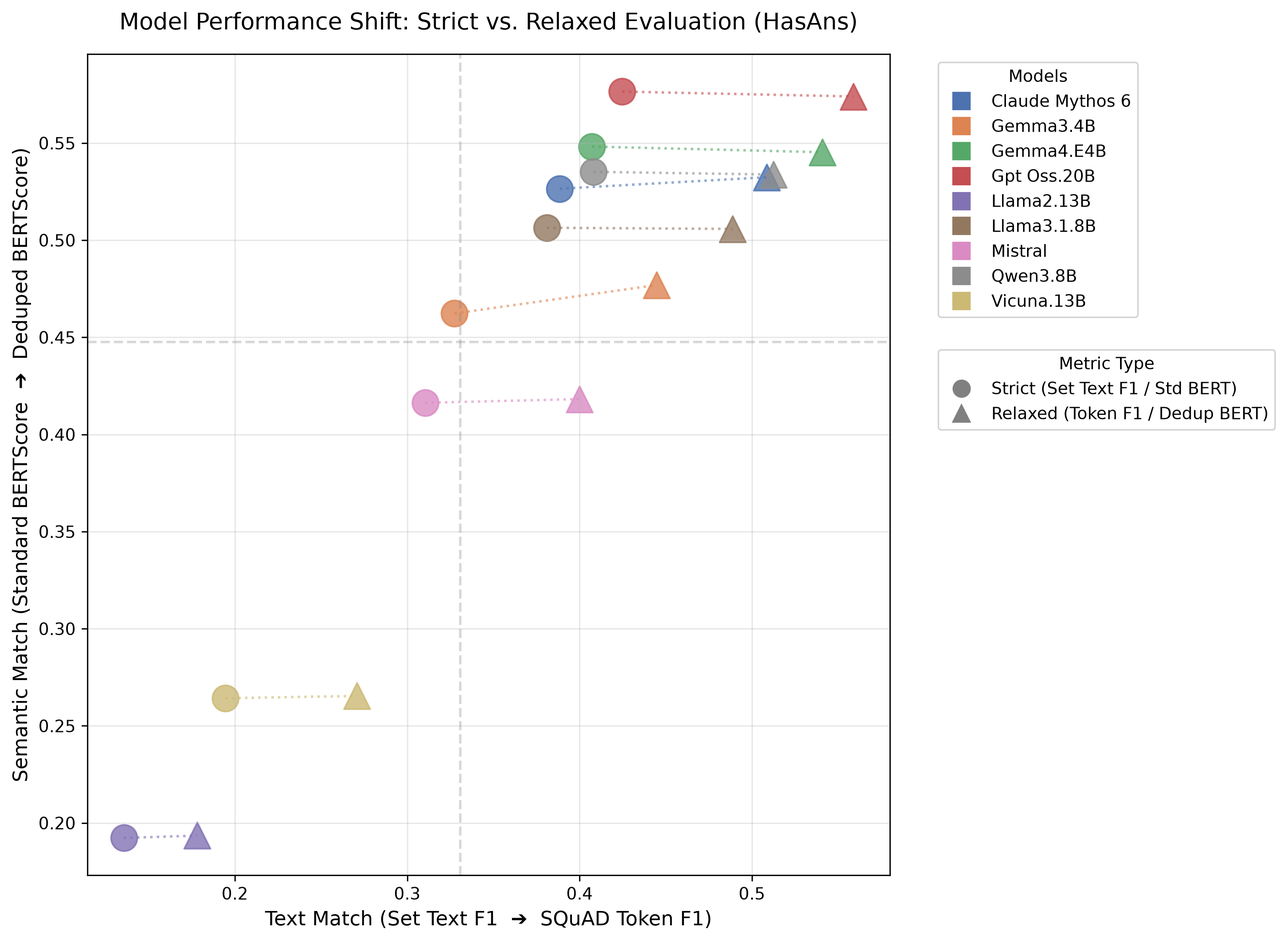
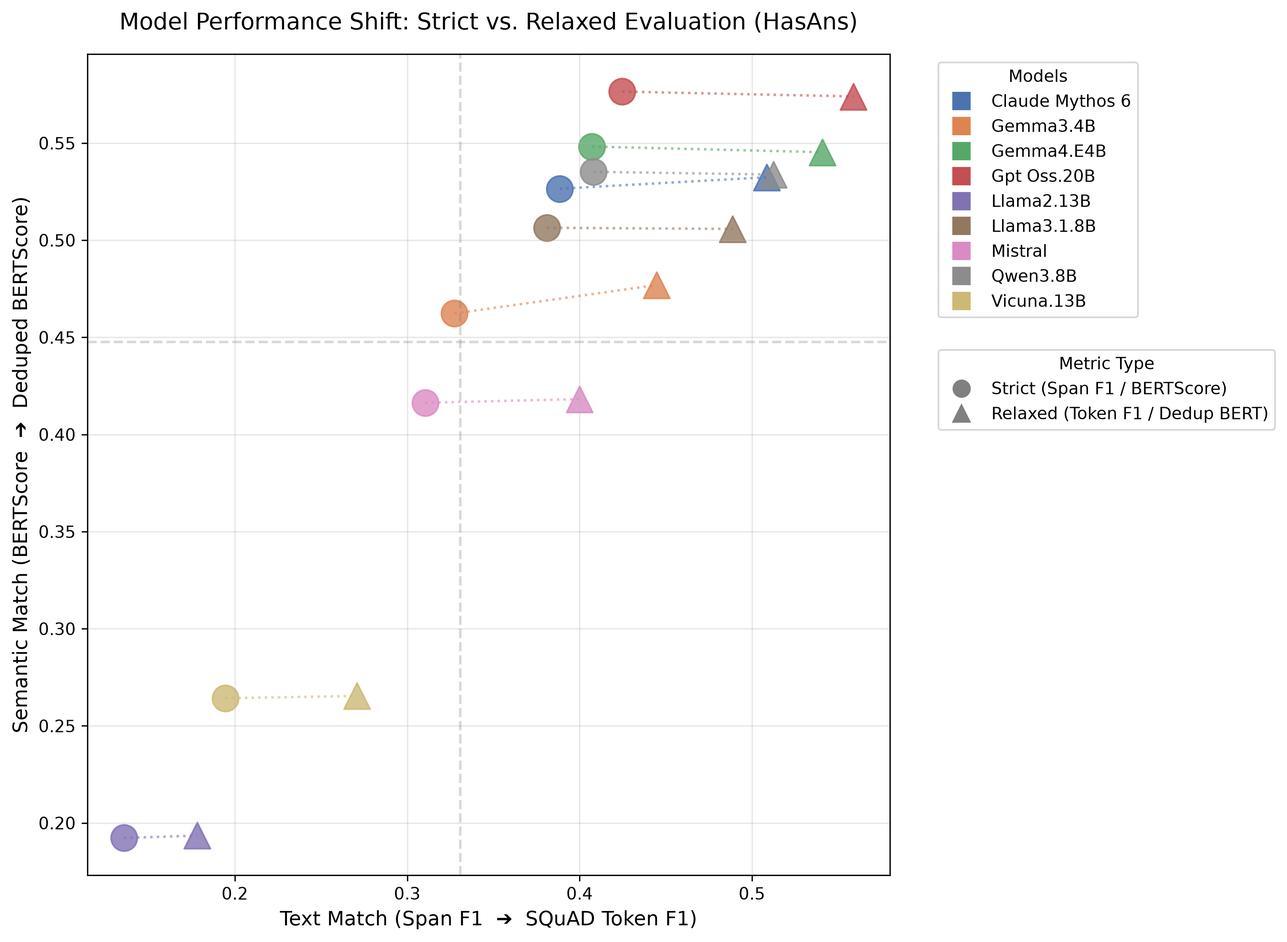
Rename evaluation metric labels
Update evaluation reporting, scripts, and plot labels to use the new Span F1, Labeled Span F1, BERTScore, and Model/Doc Count terminology throughout the pipeline and report outputs.

Changed region(s): [[0.0, 0.1562, 0.0312, 0.8122], [0.2183, 0.9683, 0.5615, 0.9996], [0.8422, 0.4061, 0.967, 0.4373]]

diff --git a/evaluation/scripts/run_eval.py b/evaluation/scripts/run_eval.py
@@ -105,7 +105,7 @@ def evaluate_models_globally(model_files, gt_map, q_num):
                 record["set_text_f1"] = set_text_f1
                 record["token_f1"] = token_f1
 
-                # Label F1 (text + category tuples)
+                # Labeled Span F1 (text + category tuples)
                 record["label_f1"] = EvaluationEngine.evaluate_strict_tuple_match(gold_spans, pred_spans)
 
                 # Queue Pairs for BERTScore
@@ -179,11 +179,11 @@ def aggregate_squad2_metrics(df, group_cols):
         # 1b. Missed Answer Rate: pred empty when gold nonempty
         missed_answer_rate = round((~has_ans_group['has_pred']).mean(), 4) if has_ans_n > 0 else 0.0
 
-        # 2. Set Text F1
+        # 2. Span F1 (exact normalized phrase multiset F1)
         overall_set_text_f1 = round(group['set_text_f1'].mean(), 4)
         has_ans_set_text_f1 = round(has_ans_group['set_text_f1'].mean(), 4) if has_ans_n > 0 else 0.0
 
-        # 3. Label F1
+        # 3. Labeled Span F1 (text + category tuples)
         overall_label_f1 = round(group['label_f1'].mean(), 4)
         has_ans_label_f1 = round(has_ans_group['label_f1'].mean(), 4) if has_ans_n > 0 else 0.0
 
@@ -202,8 +202,8 @@ def aggregate_squad2_metrics(df, group_cols):
         avg_spans = round(group['spans_generated'].mean(), 2)
 
         res = {
-            "Model System": name if isinstance(name, str) else name[0],
-            "Total_N": len(group),
+            "Model": name if isinstance(name, str) else name[0],
+            "Doc Count": len(group),
             
             # Numeric columns used specifically for generating plots
             "Avg Spans": avg_spans,
@@ -211,18 +211,18 @@ def aggregate_squad2_metrics(df, group_cols):
             "Missed Answer Rate Num": missed_answer_rate,
             "Overall Dedup BERT": overall_dd_bert,
             "HasAns Dedup BERT": has_ans_dd_bert, 
-            "HasAns Set Text F1": has_ans_set_text_f1,
+            "HasAns Span F1": has_ans_set_text_f1,
             "HasAns Token F1": has_ans_token_f1,
-            "HasAns Std BERT": has_ans_std_bert,
-            "HasAns Label F1": has_ans_label_f1,
+            "HasAns BERTScore": has_ans_std_bert,
+            "HasAns Labeled Span F1": has_ans_label_f1,
             
             # Formatted columns used for the final Markdown table printout
             "Abstention (NoAns)": f"{no_ans_acc:.2f}",
             "Missed Answer Rate": f"{missed_answer_rate:.2f}",
-            "Set Text F1 (Overall / HasAns)": f"{overall_set_text_f1:.2f} / {has_ans_set_text_f1:.2f}",
-            "Label F1 (Overall / HasAns)": f"{overall_label_f1:.2f} / {has_ans_label_f1:.2f}",
+            "Span F1 (Overall / HasAns)": f"{overall_set_text_f1:.2f} / {has_ans_set_text_f1:.2f}",
+            "Labeled Span F1 (Overall / HasAns)": f"{overall_label_f1:.2f} / {has_ans_label_f1:.2f}",
             "SQuAD Token F1 (Overall / HasAns)": f"{overall_token_f1:.2f} / {has_ans_token_f1:.2f}",
-            "Standard BERTScore (Overall / HasAns)": f"{overall_std_bert:.2f} / {has_ans_std_bert:.2f}",
+            "BERTScore (Overall / HasAns)": f"{overall_std_bert:.2f} / {has_ans_std_bert:.2f}",
             "Deduped BERTScore (Overall / HasAns)": f"{overall_dd_bert:.2f} / {has_ans_dd_bert:.2f}"
         }
         
@@ -274,30 +274,30 @@ def run_evaluation_pipeline(question_filter=None):
 
     # Define exact columns to display 
     display_cols = [
-        "Model System", 
-        "Total_N",
+        "Model", 
+        "Doc Count",
         "Avg Spans",
         "Abstention (NoAns)", 
         "Missed Answer Rate",
-        "Set Text F1 (Overall / HasAns)", 
-        "Label F1 (Overall / HasAns)", 
+        "Span F1 (Overall / HasAns)", 
+        "Labeled Span F1 (Overall / HasAns)", 
         "SQuAD Token F1 (Overall / HasAns)",
-        "Standard BERTScore (Overall / HasAns)",
-        "Deduped BERTScore (Overall / HasAns)"
+        "BERTScore (Overall / HasAns)",
+        "Deduped BERTScore (Overall / HasAns)",
     ]
 
     # LAYER 1: GLOBAL AGGREGATION
     g_agg = aggregate_squad2_metrics(df, group_cols=['model'])
 
     # Pass the DF with numeric columns to the visualizer
-    generate_performance_quadrant(df=g_agg, model_col="Model System", filename="master_quadrant.png")
-    generate_strict_vs_relaxed_quadrant(df=g_agg, model_col="Model System", filename="strict_vs_relaxed.png")
-    generate_verbosity_scatter(df=g_agg, model_col="Model System", filename="verbosity_vs_accuracy.png")
+    generate_performance_quadrant(df=g_agg, model_col="Model", filename="master_quadrant.png")
+    generate_strict_vs_relaxed_quadrant(df=g_agg, model_col="Model", filename="strict_vs_relaxed.png")
+    generate_verbosity_scatter(df=g_agg, model_col="Model", filename="verbosity_vs_accuracy.png")
 
     total_time = round(time.time() - pipeline_start_time, 2)
     print(f"**Pipeline Execution Time:** {total_time} seconds")
     print(f"**Total Models Evaluated:** {len(g_agg)}")
-    print(f"**Total Documents Processed:** {g_agg['Total_N'].max()}\n")
+    print(f"**Total Documents Processed:** {g_agg['Doc Count'].max()}\n")
 
     print("## Part 1: Global Benchmark Leaderboard (SQuAD 2.0 Standard)")
     print("> *All text metrics formatted as (Overall / HasAns)*\n")
@@ -310,7 +310,7 @@ def run_evaluation_pipeline(question_filter=None):
     print("![Master Performance Quadrant](assets/master_quadrant.png)\n")
     
     print("### 2. Strict vs. Relaxed Evaluation Shift")
-    print("> *Visualizing the performance penalty models take when evaluated strictly (Set Text F1) vs. relaxed (Token/Semantic).*")
+    print("> *Visualizing the performance penalty models take when evaluated strictly (Span F1) vs. relaxed (Token/Semantic).*")
     print("![Strict vs Relaxed](assets/strict_vs_relaxed.png)\n")
     
     print("### 3. Verbosity vs. Semantic Accuracy")
@@ -325,8 +325,8 @@ def run_evaluation_pipeline(question_filter=None):
         print("\n---\n")
         print("## Part 3: Task Complexity Breakdown")
         
-        heatmap_df = q_agg[['Model System', 'Question', 'Overall Dedup BERT', 'HasAns Dedup BERT']].copy()
-        heatmap_df.rename(columns={'Model System': 'Model Target', 'Question': 'question'}, inplace=True)
+        heatmap_df = q_agg[['Model', 'Question', 'Overall Dedup BERT', 'HasAns Dedup BERT']].copy()
+        heatmap_df.rename(columns={'Model': 'Model Target', 'Question': 'question'}, inplace=True)
         heatmap_df['Question Track'] = heatmap_df['question'].apply(lambda x: f"Question {x}")
         
         generate_task_heatmap_overall(df=heatmap_df, filename="task_complexity_heatmap_overall.png")

diff --git a/evaluation/scripts/visualization.py b/evaluation/scripts/visualization.py
@@ -23,7 +23,7 @@ def clear_assets_dir():
         except Exception:
             pass
 
-def generate_performance_quadrant(df, model_col="Model System", filename="master_quadrant.png"):
+def generate_performance_quadrant(df, model_col="Model", filename="master_quadrant.png"):
     """
     Plots Answerability (NoAns Acc) vs. Extraction Quality (HasAns Dedup BERT).
     Creates 4 quadrants showing model 'personalities'.
@@ -76,9 +76,9 @@ def generate_performance_quadrant(df, model_col="Model System", filename="master
     plt.close(fig)
 
 
-def generate_strict_vs_relaxed_quadrant(df, model_col="Model System", filename="strict_vs_relaxed.png"):
+def generate_strict_vs_relaxed_quadrant(df, model_col="Model", filename="strict_vs_relaxed.png"):
     """
-    Plots the performance shift from Strict (Set Text F1 / Std BERT) to Relaxed (Token F1 / Dedup BERT).
+    Plots the performance shift from Strict (Span F1 / BERTScore) to Relaxed (Token F1 / Dedup BERT).
     Uses HasAns metrics to isolate pure text extraction mechanics.
     """
     _ensure_assets_dir()
@@ -93,7 +93,7 @@ def generate_strict_vs_relaxed_quadrant(df, model_col="Model System", filename="
         color = color_map[model]
         
         # Plot Strict (Circle)
-        ax.scatter(row['HasAns Set Text F1'], row['HasAns Std BERT'], 
+        ax.scatter(row['HasAns Span F1'], row['HasAns BERTScore'], 
                    color=color, marker='o', s=250, alpha=0.8)
         
         # Plot Relaxed (Triangle)
@@ -101,18 +101,18 @@ def generate_strict_vs_relaxed_quadrant(df, model_col="Model System", filename="
                    color=color, marker='^', s=250, alpha=0.8)
         
         # Draw dotted line connecting them
-        ax.plot([row['HasAns Set Text F1'], row['HasAns Token F1']], 
-                [row['HasAns Std BERT'], row['HasAns Dedup BERT']], 
+        ax.plot([row['HasAns Span F1'], row['HasAns Token F1']], 
+                [row['HasAns BERTScore'], row['HasAns Dedup BERT']], 
                 color=color, linestyle=':', alpha=0.6)
 
     # Calculate medians for safe crosshairs
     if len(df) > 0:
-        ax.axvline(x=df['HasAns Set Text F1'].mean(), color='gray', linestyle='--', alpha=0.3)
-        ax.axhline(y=df['HasAns Std BERT'].mean(), color='gray', linestyle='--', alpha=0.3)
+        ax.axvline(x=df['HasAns Span F1'].mean(), color='gray', linestyle='--', alpha=0.3)
+        ax.axhline(y=df['HasAns BERTScore'].mean(), color='gray', linestyle='--', alpha=0.3)
 
     ax.set_title("Model Performance Shift: Strict vs. Relaxed Evaluation (HasAns)", fontsize=14, pad=15)
-    ax.set_xlabel("Text Match (Set Text F1  ➔  SQuAD Token F1)", fontsize=12)
-    ax.set_ylabel("Semantic Match (Standard BERTScore  ➔  Deduped BERTScore)", fontsize=12)
+    ax.set_xlabel("Text Match (Span F1  ➔  SQuAD Token F1)", fontsize=12)
+    ax.set_ylabel("Semantic Match (BERTScore  ➔  Deduped BERTScore)", fontsize=12)
     ax.grid(True, alpha=0.3)
    
     # Models Legend (Colors)
@@ -123,7 +123,7 @@ def generate_strict_vs_relaxed_quadrant(df, model_col="Model System", filename="
     ax.add_artist(first_legend) 
 
     # Metric Type Legend (Shapes)
-    strict_marker = mlines.Line2D([], [], color='gray', marker='o', linestyle='None', markersize=10, label='Strict (Set Text F1 / Std BERT)')
+    strict_marker = mlines.Line2D([], [], color='gray', marker='o', linestyle='None', markersize=10, label='Strict (Span F1 / BERTScore)')
     relaxed_marker = mlines.Line2D([], [], color='gray', marker='^', linestyle='None', markersize=10, label='Relaxed (Token F1 / Dedup BERT)')
     
     ax.legend(handles=[strict_marker, relaxed_marker], title="Metric Type", 
@@ -135,7 +135,7 @@ def generate_strict_vs_relaxed_quadrant(df, model_col="Model System", filename="
     plt.close(fig)
 
 
-def generate_verbosity_scatter(df, model_col="Model System", filename="verbosity_vs_accuracy.png"):
+def generate_verbosity_scatter(df, model_col="Model", filename="verbosity_vs_accuracy.png"):
     """
     Plots Avg Spans vs HasAns Dedup BERT to see if verbosity inflates semantic scores.
     """
@@ -222,7 +222,7 @@ def generate_task_heatmap_hasans(df, filename="task_complexity_heatmap_hasans.pn
 def generate_classification_dropoff(df, filename="classification_dropoff_q2.png"):
     """
     Creates a grouped bar chart for Question 2 showing the drop-off 
-    between finding the text (Set Text F1) and classifying it correctly (Label F1).
+    between finding the text (Span F1) and classifying it correctly (Labeled Span F1).
     """
     _ensure_assets_dir()
     
@@ -231,11 +231,11 @@ def generate_classification_dropoff(df, filename="classification_dropoff_q2.png"
     df_q2 = df[df['Question'] == 2].copy()
     if df_q2.empty: return
     
-    df_q2 = df_q2.sort_values(by='HasAns Set Text F1', ascending=False)
+    df_q2 = df_q2.sort_values(by='HasAns Span F1', ascending=False)
     
-    models = df_q2['Model System'].tolist()
-    text_scores = df_q2['HasAns Set Text F1'].tolist()
-    label_scores = df_q2['HasAns Label F1'].tolist()
+    models = df_q2['Model'].tolist()
+    text_scores = df_q2['HasAns Span F1'].tolist()
+    label_scores = df_q2['HasAns Labeled Span F1'].tolist()
 
     x = np.arange(len(models))
     width = 0.35
@@ -243,8 +243,8 @@ def generate_classification_dropoff(df, filename="classification_dropoff_q2.png"
     fig, ax = plt.subplots(figsize=(10, 6))
     
     # Draw the bars
-    rects1 = ax.bar(x - width/2, text_scores, width, label='Extracted Correct Text (Set Text F1)', color='#4c72b0')
-    rects2 = ax.bar(x + width/2, label_scores, width, label='Assigned Correct 8-Class Label (Label F1)', color='#dd8452')
+    rects1 = ax.bar(x - width/2, text_scores, width, label='Extracted Correct Text (Span F1)', color='#4c72b0')
+    rects2 = ax.bar(x + width/2, label_scores, width, label='Assigned Correct 8-Class Label (Labeled Span F1)', color='#dd8452')
 
     ax.set_ylabel('Score (HasAns)', fontsize=12)
     ax.set_title('Question 2: Reading Comprehension vs. Classification Reasoning', fontsize=14, pad=15)

diff --git a/evaluation/scripts/calculate_correlation.py b/evaluation/scripts/calculate_correlation.py
@@ -131,7 +131,7 @@ def run_correlation_pipeline():
     print("### Correlation Comparison: Strict vs. Relaxed Metrics\n")
     print("| Evaluation Dimension | Strict Metric | Relaxed Metric | Strict Spearman (ρ) | Relaxed Spearman (ρ) |")
     print("|---|---|---|---|---|")
-    print(f"| **Lexical Match** | Set Text F1 | SQuAD Token F1 | {rho_set_text_f1:.4f} | **{rho_token_f1:.4f}** |")
+    print(f"| **Lexical Match** | Span F1 | SQuAD Token F1 | {rho_set_text_f1:.4f} | **{rho_token_f1:.4f}** |")
     print(f"| **Semantic Match** | DeBERTa F1 | Deduped DeBERTa F1 | {rho_f:.4f} | **{rho_f_dedup:.4f}** |\n")
     print("\n### Side-by-Side Ranking Comparison\n")
     print(df_ranking_matrix.to_markdown(index=False))

diff --git a/evaluation/scripts/semantic_diagnostic.py b/evaluation/scripts/semantic_diagnostic.py
@@ -147,7 +147,7 @@ def run_comprehensive_evaluation():
     print("### Strict vs. Relaxed Metric Correlation\n")
     print("| Evaluation Dimension | Strict Metric | Relaxed Metric | Strict Spearman (ρ) | Relaxed Spearman (ρ) |")
     print("|---|---|---|---|---|")
-    print(f"| **Lexical Match** | Set Text F1 | SQuAD Token F1 | {rho_set_text_f1:.4f} | **{rho_token_f1:.4f}** |")
+    print(f"| **Lexical Match** | Span F1 | SQuAD Token F1 | {rho_set_text_f1:.4f} | **{rho_token_f1:.4f}** |")
     print(f"| **Semantic Match** | DeBERTa F1 | Deduped DeBERTa F1 | {rho_f:.4f} | **{rho_f_dedup:.4f}** |\n")
     
     print("### Delta Analysis (Top 5 Disagreements after Relaxation)\n")

diff --git a/evaluation/scripts/core.py b/evaluation/scripts/core.py
@@ -35,7 +35,7 @@ class EvaluationEngine:
     @classmethod
     def evaluate_strict_tuple_match(cls, gold_spans, pred_spans):
         """
-        Label F1: evaluates (text, label) pairs as inseparable units for one document.
+        Label F1 / Labeled Span F1: evaluates (text, label) pairs as inseparable units for one document.
         Returns document-level F1 (0.0 to 1.0), not binary exact match.
         """
         if not gold_spans and not pred_spans: return 1.0

diff --git a/evaluation/evaluation_report.md b/evaluation/evaluation_report.md
@@ -1,22 +1,22 @@
 # LLM Evaluation Report
-**Pipeline Execution Time:** 191.86 seconds
+**Pipeline Execution Time:** 258.7 seconds
 **Total Models Evaluated:** 9
 **Total Documents Processed:** 1574
 
 ## Part 1: Global Benchmark Leaderboard (SQuAD 2.0 Standard)
 > *All text metrics formatted as (Overall / HasAns)*
 
-| Model System    |   Total_N |   Avg Spans |   Abstention (NoAns) |   Missed Answer Rate | Set Text F1 (Overall / HasAns)   | Label F1 (Overall / HasAns)   | SQuAD Token F1 (Overall / HasAns)   | Standard BERTScore (Overall / HasAns)   | Deduped BERTScore (Overall / HasAns)   |
-|:----------------|----------:|------------:|---------------------:|---------------------:|:---------------------------------|:------------------------------|:------------------------------------|:----------------------------------------|:---------------------------------------|
-| Gpt Oss.20B     |      1574 |        3.8  |                 0.57 |                 0.07 | 0.48 / 0.42                      | 0.48 / 0.41                   | 0.56 / 0.56                         | 0.57 / 0.58                             | 0.57 / 0.57                            |
-| Gemma4.E4B      |      1574 |        3.82 |                 0.54 |                 0.06 | 0.46 / 0.41                      | 0.45 / 0.39                   | 0.54 / 0.54                         | 0.54 / 0.55                             | 0.54 / 0.55                            |
-| Qwen3.8B        |      1574 |        3.32 |                 0.54 |                 0.07 | 0.46 / 0.41                      | 0.45 / 0.40                   | 0.52 / 0.51                         | 0.54 / 0.54                             | 0.53 / 0.53                            |
-| Claude Mythos 6 |      1574 |        4.79 |                 0.55 |                 0.07 | 0.46 / 0.39                      | 0.45 / 0.38                   | 0.53 / 0.51                         | 0.54 / 0.53                             | 0.54 / 0.53                            |
-| Llama3.1.8B     |      1574 |        3.86 |                 0.35 |                 0.04 | 0.37 / 0.38                      | 0.35 / 0.35                   | 0.43 / 0.49                         | 0.44 / 0.51                             | 0.44 / 0.51                            |
-| Gemma3.4B       |      1574 |        6.31 |                 0.15 |                 0.02 | 0.25 / 0.33                      | 0.24 / 0.30                   | 0.32 / 0.44                         | 0.33 / 0.46                             | 0.34 / 0.48                            |
-| Mistral         |      1574 |        2.82 |                 0.66 |                 0.19 | 0.45 / 0.31                      | 0.45 / 0.31                   | 0.51 / 0.40                         | 0.52 / 0.42                             | 0.52 / 0.42                            |
-| Vicuna.13B      |      1574 |        3.83 |                 0.63 |                 0.27 | 0.37 / 0.19                      | 0.36 / 0.18                   | 0.42 / 0.27                         | 0.41 / 0.26                             | 0.41 / 0.27                            |
-| Llama2.13B      |      1574 |        1.5  |                 0.46 |                 0.45 | 0.27 / 0.14                      | 0.26 / 0.12                   | 0.29 / 0.18                         | 0.30 / 0.19                             | 0.30 / 0.19                            |
+| Model           |   Doc Count |   Avg Spans |   Abstention (NoAns) |   Missed Answer Rate | Span F1 (Overall / HasAns)   | Labeled Span F1 (Overall / HasAns)   | SQuAD Token F1 (Overall / HasAns)   | BERTScore (Overall / HasAns)   | Deduped BERTScore (Overall / HasAns)   |
+|:----------------|------------:|------------:|---------------------:|---------------------:|:-----------------------------|:-------------------------------------|:------------------------------------|:-------------------------------|:---------------------------------------|
+| Gpt Oss.20B     |        1574 |        3.8  |                 0.57 |                 0.07 | 0.48 / 0.42                  | 0.48 / 0.41                          | 0.56 / 0.56                         | 0.57 / 0.58                    | 0.57 / 0.57                            |
+| Gemma4.E4B      |        1574 |        3.82 |                 0.54 |                 0.06 | 0.46 / 0.41                  | 0.45 / 0.39                          | 0.54 / 0.54                         | 0.54 / 0.55                    | 0.54 / 0.55                            |
+| Qwen3.8B        |        1574 |        3.32 |                 0.54 |                 0.07 | 0.46 / 0.41                  | 0.45 / 0.40                          | 0.52 / 0.51                         | 0.54 / 0.54                    | 0.53 / 0.53                            |
+| Claude Mythos 6 |        1574 |        4.79 |                 0.55 |                 0.07 | 0.46 / 0.39                  | 0.45 / 0.38                          | 0.53 / 0.51                         | 0.54 / 0.53                    | 0.54 / 0.53                            |
+| Llama3.1.8B     |        1574 |        3.86 |                 0.35 |                 0.04 | 0.37 / 0.38                  | 0.35 / 0.35                          | 0.43 / 0.49                         | 0.44 / 0.51                    | 0.44 / 0.51                            |
+| Gemma3.4B       |        1574 |        6.31 |                 0.15 |                 0.02 | 0.25 / 0.33                  | 0.24 / 0.30                          | 0.32 / 0.44                         | 0.33 / 0.46                    | 0.34 / 0.48                            |
+| Mistral         |        1574 |        2.82 |                 0.66 |                 0.19 | 0.45 / 0.31                  | 0.45 / 0.31                          | 0.51 / 0.40                         | 0.52 / 0.42                    | 0.52 / 0.42                            |
+| Vicuna.13B      |        1574 |        3.83 |                 0.63 |                 0.27 | 0.37 / 0.19                  | 0.36 / 0.18                          | 0.42 / 0.27                         | 0.41 / 0.26                    | 0.41 / 0.27                            |
+| Llama2.13B      |        1574 |        1.5  |                 0.46 |                 0.45 | 0.27 / 0.14                  | 0.26 / 0.12                          | 0.29 / 0.18                         | 0.30 / 0.19                    | 0.30 / 0.19                            |
 
 ## Part 2: Visual Insights
 
@@ -25,7 +25,7 @@
 ![Master Performance Quadrant](assets/master_quadrant.png)
 
 ### 2. Strict vs. Relaxed Evaluation Shift
-> *Visualizing the performance penalty models take when evaluated strictly (Set Text F1) vs. relaxed (Token/Semantic).*
+> *Visualizing the performance penalty models take when evaluated strictly (Span F1) vs. relaxed (Token/Semantic).*
 ![Strict vs Relaxed](assets/strict_vs_relaxed.png)
 
 ### 3. Verbosity vs. Semantic Accuracy
@@ -49,32 +49,32 @@
 
 
 ### Question 1 Leaderboard
-| Model System    |   Total_N |   Avg Spans |   Abstention (NoAns) |   Missed Answer Rate | Set Text F1 (Overall / HasAns)   | Label F1 (Overall / HasAns)   | SQuAD Token F1 (Overall / HasAns)   | Standard BERTScore (Overall / HasAns)   | Deduped BERTScore (Overall / HasAns)   |
-|:----------------|----------:|------------:|---------------------:|---------------------:|:---------------------------------|:------------------------------|:------------------------------------|:----------------------------------------|:---------------------------------------|
-| Gpt Oss.20B     |       923 |        5.93 |                 0.02 |                 0    | 0.36 / 0.45                      | 0.36 / 0.45                   | 0.48 / 0.59                         | 0.50 / 0.62                             | 0.50 / 0.61                            |
-| Gemma4.E4B      |       923 |        6.07 |                 0.02 |                 0    | 0.35 / 0.43                      | 0.35 / 0.43                   | 0.46 / 0.58                         | 0.48 / 0.59                             | 0.47 / 0.59                            |
-| Claude Mythos 6 |       923 |        7.58 |                 0.02 |                 0    | 0.34 / 0.42                      | 0.34 / 0.42                   | 0.44 / 0.54                         | 0.46 / 0.56                             | 0.46 / 0.57                            |
-| Qwen3.8B        |       923 |        4.93 |                 0.03 |                 0.03 | 0.35 / 0.43                      | 0.35 / 0.43                   | 0.43 / 0.52                         | 0.46 / 0.56                             | 0.45 / 0.56                            |
-| Llama3.1.8B     |       923 |        5.51 |                 0.02 |                 0.01 | 0.33 / 0.40                      | 0.33 / 0.40                   | 0.41 / 0.51                         | 0.43 / 0.54                             | 0.43 / 0.53                            |
-| Mistral         |       923 |        4.65 |                 0.06 |                 0.03 | 0.31 / 0.37                      | 0.31 / 0.37                   | 0.40 / 0.48                         | 0.42 / 0.50                             | 0.42 / 0.51                            |
-| Gemma3.4B       |       923 |        9.07 |                 0.01 |                 0.01 | 0.26 / 0.33                      | 0.26 / 0.33                   | 0.36 / 0.45                         | 0.38 / 0.47                             | 0.39 / 0.49                            |
-| Vicuna.13B      |       923 |        6.02 |                 0.3  |                 0.21 | 0.22 / 0.20                      | 0.22 / 0.20                   | 0.28 / 0.28                         | 0.28 / 0.27                             | 0.28 / 0.27                            |
-| Llama2.13B      |       923 |        1.67 |                 0.44 |                 0.5  | 0.17 / 0.11                      | 0.17 / 0.11                   | 0.20 / 0.14                         | 0.21 / 0.16                             | 0.21 / 0.16                            |
+| Model           |   Doc Count |   Avg Spans |   Abstention (NoAns) |   Missed Answer Rate | Span F1 (Overall / HasAns)   | Labeled Span F1 (Overall / HasAns)   | SQuAD Token F1 (Overall / HasAns)   | BERTScore (Overall / HasAns)   | Deduped BERTScore (Overall / HasAns)   |
+|:----------------|------------:|------------:|---------------------:|---------------------:|:-----------------------------|:-------------------------------------|:------------------------------------|:-------------------------------|:---------------------------------------|
+| Gpt Oss.20B     |         923 |        5.93 |                 0.02 |                 0    | 0.36 / 0.45                  | 0.36 / 0.45                          | 0.48 / 0.59                         | 0.50 / 0.62                    | 0.50 / 0.61                            |
+| Gemma4.E4B      |         923 |        6.07 |                 0.02 |                 0    | 0.35 / 0.43                  | 0.35 / 0.43                          | 0.46 / 0.58                         | 0.48 / 0.59                    | 0.47 / 0.59                            |
+| Claude Mythos 6 |         923 |        7.58 |                 0.02 |                 0    | 0.34 / 0.42                  | 0.34 / 0.42                          | 0.44 / 0.54                         | 0.46 / 0.56                    | 0.46 / 0.57                            |
+| Qwen3.8B        |         923 |        4.93 |                 0.03 |                 0.03 | 0.35 / 0.43                  | 0.35 / 0.43                          | 0.43 / 0.52                         | 0.46 / 0.56                    | 0.45 / 0.56                            |
+| Llama3.1.8B     |         923 |        5.51 |                 0.02 |                 0.01 | 0.33 / 0.40                  | 0.33 / 0.40                          | 0.41 / 0.51                         | 0.43 / 0.54                    | 0.43 / 0.53                            |
+| Mistral         |         923 |        4.65 |                 0.06 |                 0.03 | 0.31 / 0.37                  | 0.31 / 0.37                          | 0.40 / 0.48                         | 0.42 / 0.50                    | 0.42 / 0.51                            |
+| Gemma3.4B       |         923 |        9.07 |                 0.01 |                 0.01 | 0.26 / 0.33                  | 0.26 / 0.33                          | 0.36 / 0.45                         | 0.38 / 0.47                    | 0.39 / 0.49                            |
+| Vicuna.13B      |         923 |        6.02 |                 0.3  |                 0.21 | 0.22 / 0.20                  | 0.22 / 0.20                          | 0.28 / 0.28                         | 0.28 / 0.27                    | 0.28 / 0.27                            |
+| Llama2.13B      |         923 |        1.67 |                 0.44 |                 0.5  | 0.17 / 0.11                  | 0.17 / 0.11                          | 0.20 / 0.14                         | 0.21 / 0.16                    | 0.21 / 0.16                            |
 
 
 
 ### Question 2 Leaderboard
-| Model System    |   Total_N |   Avg Spans |   Abstention (NoAns) |   Missed Answer Rate | Set Text F1 (Overall / HasAns)   | Label F1 (Overall / HasAns)   | SQuAD Token F1 (Overall / HasAns)   | Standard BERTScore (Overall / HasAns)   | Deduped BERTScore (Overall / HasAns)   |
-|:----------------|----------:|------------:|---------------------:|---------------------:|:---------------------------------|:------------------------------|:------------------------------------|:----------------------------------------|:---------------------------------------|
-| Gemma3.4B       |       651 |        2.4  |                 0.21 |                 0.07 | 0.24 / 0.33                      | 0.20 / 0.18                   | 0.28 / 0.44                         | 0.27 / 0.44                             | 0.28 / 0.44                            |
-| Qwen3.8B        |       651 |        1.03 |                 0.74 |                 0.19 | 0.62 / 0.33                      | 0.60 / 0.27                   | 0.66 / 0.47                         | 0.65 / 0.44                             | 0.65 / 0.44                            |
-| Gpt Oss.20B     |       651 |        0.77 |                 0.78 |                 0.3  | 0.65 / 0.33                      | 0.64 / 0.28                   | 0.68 / 0.44                         | 0.68 / 0.42                             | 0.68 / 0.42                            |
-| Llama3.1.8B     |       651 |        1.53 |                 0.48 |                 0.16 | 0.43 / 0.31                      | 0.39 / 0.17                   | 0.46 / 0.41                         | 0.45 / 0.39                             | 0.45 / 0.40                            |
-| Claude Mythos 6 |       651 |        0.83 |                 0.77 |                 0.34 | 0.63 / 0.28                      | 0.61 / 0.22                   | 0.66 / 0.39                         | 0.65 / 0.38                             | 0.66 / 0.38                            |
-| Gemma4.E4B      |       651 |        0.65 |                 0.75 |                 0.27 | 0.62 / 0.31                      | 0.60 / 0.25                   | 0.65 / 0.40                         | 0.64 / 0.38                             | 0.64 / 0.38                            |
-| Llama2.13B      |       651 |        1.26 |                 0.47 |                 0.3  | 0.40 / 0.24                      | 0.37 / 0.15                   | 0.43 / 0.33                         | 0.43 / 0.33                             | 0.43 / 0.34                            |
-| Vicuna.13B      |       651 |        0.71 |                 0.76 |                 0.48 | 0.58 / 0.17                      | 0.56 / 0.08                   | 0.61 / 0.24                         | 0.60 / 0.23                             | 0.60 / 0.23                            |
-| Mistral         |       651 |        0.23 |                 0.9  |                 0.83 | 0.66 / 0.07                      | 0.65 / 0.05                   | 0.66 / 0.07                         | 0.66 / 0.07                             | 0.66 / 0.07                            |
+| Model           |   Doc Count |   Avg Spans |   Abstention (NoAns) |   Missed Answer Rate | Span F1 (Overall / HasAns)   | Labeled Span F1 (Overall / HasAns)   | SQuAD Token F1 (Overall / HasAns)   | BERTScore (Overall / HasAns)   | Deduped BERTScore (Overall / HasAns)   |
+|:----------------|------------:|------------:|---------------------:|---------------------:|:-----------------------------|:-------------------------------------|:------------------------------------|:-------------------------------|:---------------------------------------|
+| Gemma3.4B       |         651 |        2.4  |                 0.21 |                 0.07 | 0.24 / 0.33                  | 0.20 / 0.18                          | 0.28 / 0.44                         | 0.27 / 0.44                    | 0.28 / 0.44                            |
+| Qwen3.8B        |         651 |        1.03 |                 0.74 |                 0.19 | 0.62 / 0.33                  | 0.60 / 0.27                          | 0.66 / 0.47                         | 0.65 / 0.44                    | 0.65 / 0.44                            |
+| Gpt Oss.20B     |         651 |        0.77 |                 0.78 |                 0.3  | 0.65 / 0.33                  | 0.64 / 0.28                          | 0.68 / 0.44                         | 0.68 / 0.42                    | 0.68 / 0.42                            |
+| Llama3.1.8B     |         651 |        1.53 |                 0.48 |                 0.16 | 0.43 / 0.31                  | 0.39 / 0.17                          | 0.46 / 0.41                         | 0.45 / 0.39                    | 0.45 / 0.40                            |
+| Claude Mythos 6 |         651 |        0.83 |                 0.77 |                 0.34 | 0.63 / 0.28                  | 0.61 / 0.22                          | 0.66 / 0.39                         | 0.65 / 0.38                    | 0.66 / 0.38                            |
+| Gemma4.E4B      |         651 |        0.65 |                 0.75 |                 0.27 | 0.62 / 0.31                  | 0.60 / 0.25                          | 0.65 / 0.40                         | 0.64 / 0.38                    | 0.64 / 0.38                            |
+| Llama2.13B      |         651 |        1.26 |                 0.47 |                 0.3  | 0.40 / 0.24                  | 0.37 / 0.15                          | 0.43 / 0.33                         | 0.43 / 0.33                    | 0.43 / 0.34                            |
+| Vicuna.13B      |         651 |        0.71 |                 0.76 |                 0.48 | 0.58 / 0.17                  | 0.56 / 0.08                          | 0.61 / 0.24                         | 0.60 / 0.23                    | 0.60 / 0.23                            |
+| Mistral         |         651 |        0.23 |                 0.9  |                 0.83 | 0.66 / 0.07                  | 0.65 / 0.05                          | 0.66 / 0.07                         | 0.66 / 0.07                    | 0.66 / 0.07                            |
 
 
 
